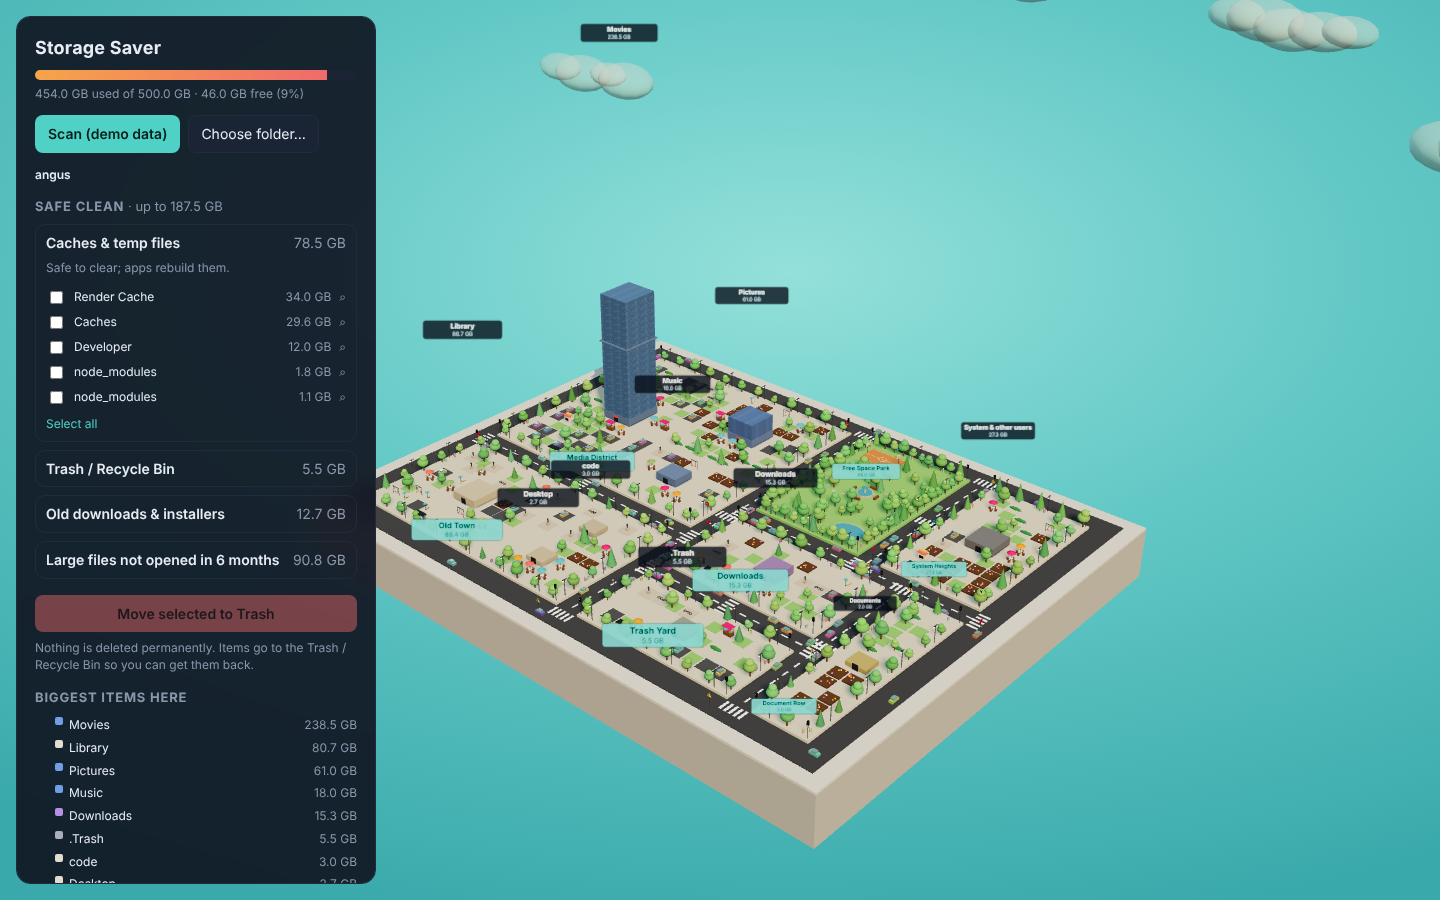
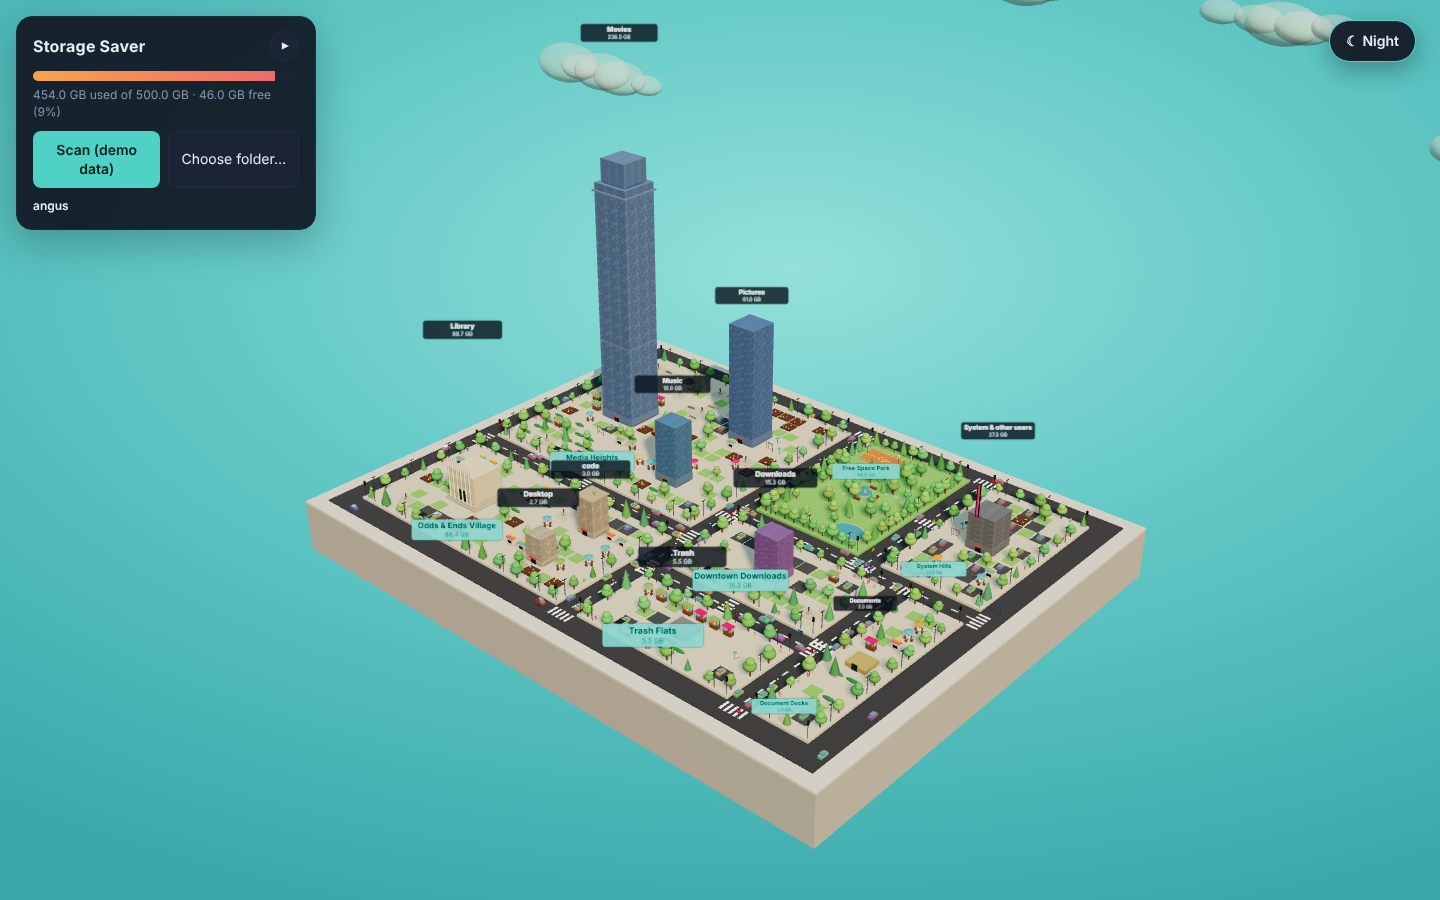
Creative suburb names, a classical Library, collapsible panel, hover fix
Suburbs are now Downtown Downloads, Cache Canyon, Media Heights, Trash
Flats, App Avenue, Document Docks, System Hills and Odds & Ends Village.
A folder named Library is drawn as a classical library with steps, a
colonnade, pediment and a dome sized by the folder. The side panel is
collapsible and starts collapsed (remembered per browser). Hover now
lightens the facade colour instead of overriding emissive, so lit
windows stay on at night.

Claude-Session: https://claude.ai/code/session_01S4hEwfN8N2XMNniWz1wTJB

diff --git a/src/renderer/app.js b/src/renderer/app.js
@@ -392,7 +392,7 @@ function lotFor(size) {
   return 6 + 48 * Math.pow(size / Math.max(maxSizeInView, 1), 0.45);
 }
 
-const SUBURB_NAMES = { cache: 'Cache Town', trash: 'Trash Yard', downloads: 'Downloads', media: 'Media District', apps: 'App Quarter', documents: 'Document Row', system: 'System Heights', other: 'Old Town', free: 'Free Space Park' };
+const SUBURB_NAMES = { cache: 'Cache Canyon', trash: 'Trash Flats', downloads: 'Downtown Downloads', media: 'Media Heights', apps: 'App Avenue', documents: 'Document Docks', system: 'System Hills', other: 'Odds & Ends Village', free: 'Free Space Park' };
 
 function layout() {
   clearBlocks();
@@ -536,8 +536,10 @@ function placeBuilding(r, depth, gap) {
   const w = Math.max(0.3, Math.min(r.w - gap, side * (0.9 + Math.random() * 0.2)));
   const d = Math.max(0.3, Math.min(r.h - gap, side * (0.9 + Math.random() * 0.2)));
   if (w < 0.6 || d < 0.6) return 0;
-  const h = heightFor(item.size);
-  const mat = facadeMaterial(item.kind, w, h, d, Math.floor(Math.random() * 4));
+  let h = heightFor(item.size);
+  const landmark = landmarkFor(item);
+  if (landmark === 'library') h = Math.min(h, 9);
+  const mat = landmark ? new THREE.MeshStandardMaterial({ color: 0xe9e2d0, roughness: 0.85 }) : facadeMaterial(item.kind, w, h, d, Math.floor(Math.random() * 4));
   const b = new THREE.Mesh(boxGeo, mat);
   b.position.set(r.x + r.w / 2, 1.1, r.y + r.h / 2);
   b.scale.set(w, 0.001, d);
@@ -551,7 +553,8 @@ function placeBuilding(r, depth, gap) {
   blocks.add(b);
   meshes.push(b);
   activeBuilding = b;
-  decorate(b, w, h, d);
+  if (landmark === 'library') decorateLibrary(b, w, h, d, heightFor(item.size));
+  else decorate(b, w, h, d);
   activeBuilding = null;
   b.userData.footprint = { x: b.position.x, z: b.position.z, w, d };
   return h;
@@ -577,6 +580,56 @@ function piece(geo, mat, x, y, z, sx, sy, sz, shadow = true) {
   blocks.add(m);
   extras.push(m);
   return m;
+}
+
+// Folders with a well-known role get a landmark instead of a generic tower.
+function landmarkFor(item) {
+  if (!item.isDir) return null;
+  const n = item.name.toLowerCase();
+  if (n === 'library') return 'library';
+  return null;
+}
+
+const columnMat = new THREE.MeshStandardMaterial({ color: 0xf4efe2, roughness: 0.8 });
+const domeMat = new THREE.MeshStandardMaterial({ color: 0x5f9c8a, roughness: 0.5, metalness: 0.3 });
+const pyramidGeo = new THREE.ConeGeometry(0.5, 1, 4);
+pyramidGeo.translate(0, 0.5, 0);
+pyramidGeo.rotateY(Math.PI / 4);
+
+// A classical library: steps, colonnade, entablature, pediment and a dome
+// whose size carries the folder's size.
+function decorateLibrary(b, w, h, d, fullH) {
+  const x = b.position.x;
+  const z = b.position.z;
+  const base = 1.1;
+  const top = base + h;
+  const front = z + d / 2;
+  // Steps.
+  piece(boxGeo, stoneMat, x, base, z, w + 1.6, 0.35, d + 1.6, false);
+  piece(boxGeo, stoneMat, x, base + 0.35, z, w + 0.9, 0.35, d + 0.9, false);
+  // Colonnade along the front.
+  const n = Math.max(3, Math.floor(w / 1.1));
+  for (let i = 0; i < n; i++) {
+    const cx = x - w / 2 + 0.55 + (i * (w - 1.1)) / Math.max(1, n - 1);
+    piece(cylGeo, columnMat, cx, base + 0.7, front + 0.55, 0.32, h - 0.7, 0.32);
+    piece(boxGeo, columnMat, cx, base + h - 0.05, front + 0.55, 0.5, 0.2, 0.5, false);
+  }
+  // Entablature and pediment over the portico.
+  piece(boxGeo, columnMat, x, top, z + d * 0.25, w + 0.4, 0.6, d * 0.5 + 1.3);
+  const ped = piece(pyramidGeo, stoneMat, x, top + 0.6, front + 0.1, w + 0.2, 1.4, 1.6);
+  ped.scale.z = 1.6;
+  // Doorway.
+  piece(boxGeo, darkMat, x, base + 0.7, front + 0.08, Math.min(1.6, w * 0.3), 2.2, 0.1, false);
+  // Dome: taller for bigger folders.
+  const r = Math.min(w, d) * 0.38;
+  const domeH = Math.max(2.5, Math.min(fullH * 0.35, 14));
+  piece(cylGeo, columnMat, x, top, z - d * 0.1, r * 1.1, 1.2, r * 1.1);
+  const dome = piece(sphereGeo, domeMat, x, top + 1.2 - domeH * 0.1, z - d * 0.1, r * 2, domeH * 1.2, r * 2);
+  dome.castShadow = true;
+  piece(cylGeo, columnMat, x, top + 1.2 + domeH * 0.5, z - d * 0.1, r * 0.35, 1.0, r * 0.35, false);
+  piece(coneGeo, spireMat, x, top + 2.2 + domeH * 0.5, z - d * 0.1, r * 0.3, 1.2, r * 0.3, false);
+  // "LIBRARY" lettering along the entablature as a dark strip.
+  piece(boxGeo, signalMat, x, top + 0.15, front + 0.95, w * 0.5, 0.3, 0.03, false);
 }
 
 function decorate(b, w, h, d) {
@@ -1363,10 +1416,17 @@ function updateHover() {
   const hits = raycaster.intersectObjects(meshes, false);
   const hit = hits.length ? hits[0].object : null;
   if (hit !== hovered) {
-    if (hovered && !hovered.userData.district) hovered.material.emissive.setHex(0x000000);
+    // Highlight by lightening the facade colour; emissive is reserved for lit windows.
+    if (hovered && hovered.userData.hoverColor) {
+      hovered.material.color.copy(hovered.userData.hoverColor);
+      hovered.userData.hoverColor = null;
+    }
     hovered = hit;
     if (hovered) {
-      if (!hovered.userData.district) hovered.material.emissive.setHex(0x3a3a3a);
+      if (!hovered.userData.district) {
+        hovered.userData.hoverColor = hovered.material.color.clone();
+        hovered.material.color.offsetHSL(0, 0, 0.14);
+      }
       const it = hovered.userData.item;
       tooltip.innerHTML = `<b>${esc(it.name)}</b>${fmt(it.size)} · ${KIND_LABELS[it.kind] || it.kind}${it.files ? ` · ${it.files.toLocaleString()} files` : ''}${it.isDir ? ' · click to open' : ''}<div class="path">${esc(it.path || '')}</div>`;
       tooltip.hidden = false;
@@ -1734,6 +1794,20 @@ $('btn-pick').onclick = async () => {
 
 $('btn-leave').onclick = leaveBuilding;
 $('btn-night').onclick = toggleNight;
+// Side panel: collapsed by default, remembered per browser.
+function setPanel(open) {
+  $('panel').classList.toggle('collapsed', !open);
+  $('btn-panel').title = open ? 'Hide details' : 'Show details';
+  try {
+    localStorage.setItem('ss-panel-open', open ? '1' : '0');
+  } catch {}
+}
+let panelOpen = false;
+try {
+  panelOpen = localStorage.getItem('ss-panel-open') === '1';
+} catch {}
+setPanel(panelOpen);
+$('btn-panel').onclick = () => setPanel($('panel').classList.contains('collapsed'));
 renderLegend();
 api.diskInfo().then((d) => {
   state.disk = d;

diff --git a/src/renderer/styles.css b/src/renderer/styles.css
@@ -22,11 +22,20 @@ html, body { margin: 0; height: 100%; background: var(--bg); color: var(--text);
 #scene canvas { display: block; }
 
 #panel {
-  position: absolute; top: 16px; left: 16px; bottom: 16px; width: 360px;
-  background: var(--panel); border: 1px solid var(--border); border-radius: 14px;
-  backdrop-filter: blur(14px); display: flex; flex-direction: column; gap: 14px; padding: 18px; overflow-y: auto;
+  position: absolute; top: 16px; left: 16px; width: 340px; max-height: calc(100% - 32px);
+  background: var(--panel); border: 1px solid var(--border); border-radius: 16px;
+  backdrop-filter: blur(14px); display: flex; flex-direction: column; padding: 14px 16px; overflow-y: auto;
+  box-shadow: 0 12px 40px rgba(0,0,0,0.25); transition: width 0.2s ease;
 }
-h1 { font-size: 18px; margin: 0 0 10px; letter-spacing: 0.2px; }
+#panel.collapsed { width: 320px; }
+#panel.collapsed #panel-body { display: none; }
+#panel-body { display: flex; flex-direction: column; gap: 14px; margin-top: 14px; padding-top: 14px; border-top: 1px solid var(--border); }
+.titlebar { display: flex; align-items: center; justify-content: space-between; margin-bottom: 10px; }
+h1 { font-size: 16px; margin: 0; letter-spacing: 0.2px; }
+button.icon { width: 30px; height: 30px; padding: 0; border-radius: 50%; display: grid; place-items: center; font-size: 14px; line-height: 1; }
+#panel.collapsed button.icon { transform: rotate(-90deg); }
+#crumbs:empty { display: none; }
+#crumbs { margin-top: 10px; }
 h2 { font-size: 13px; text-transform: uppercase; letter-spacing: 0.8px; color: var(--muted); margin: 0 0 8px; }
 .muted { color: var(--muted); font-weight: normal; text-transform: none; letter-spacing: 0; }
 .hint { color: var(--muted); font-size: 12px; margin: 8px 0 0; }
@@ -36,7 +45,8 @@ h2 { font-size: 13px; text-transform: uppercase; letter-spacing: 0.8px; color: v
 .gauge-fill.warn { background: linear-gradient(90deg, var(--cache), var(--danger)); }
 .gauge-label { font-size: 12px; color: var(--muted); margin-top: 6px; }
 
-.actions { display: flex; gap: 8px; margin-top: 12px; }
+.actions { display: flex; gap: 8px; margin-top: 10px; }
+.actions .primary { flex: 1; white-space: nowrap; }
 button { font: inherit; color: var(--text); background: #1b2435; border: 1px solid var(--border); border-radius: 8px; padding: 8px 12px; cursor: pointer; }
 button:hover:not(:disabled) { border-color: var(--accent); }
 button:disabled { opacity: 0.45; cursor: default; }

diff --git a/src/renderer/index.html b/src/renderer/index.html
@@ -12,7 +12,10 @@
 
   <aside id="panel">
     <header>
-      <h1>Storage Saver</h1>
+      <div class="titlebar">
+        <h1>Storage Saver</h1>
+        <button id="btn-panel" class="icon" title="Show details">▾</button>
+      </div>
       <div id="disk">
         <div class="gauge"><div class="gauge-fill" id="gauge-fill"></div></div>
         <div class="gauge-label" id="gauge-label">No scan yet</div>
@@ -22,9 +25,10 @@
         <button id="btn-pick" title="Scan a different folder">Choose folder…</button>
       </div>
       <div id="progress" hidden><span id="progress-text">Scanning…</span><button id="btn-cancel" class="link">Cancel</button></div>
+      <nav id="crumbs"></nav>
     </header>
 
-    <nav id="crumbs"></nav>
+    <div id="panel-body">
 
     <section id="section-clean">
       <h2>Safe clean <span id="clean-total" class="muted"></span></h2>
@@ -42,6 +46,7 @@
       <div class="legend" id="legend"></div>
       <p class="hint">Drag to orbit · Scroll to zoom · Click a building for options · Double-click the sky, press Esc, or use Leave to go back out</p>
     </footer>
+    </div>
   </aside>
 
   <button id="btn-night" class="float">☾ Night</button>
